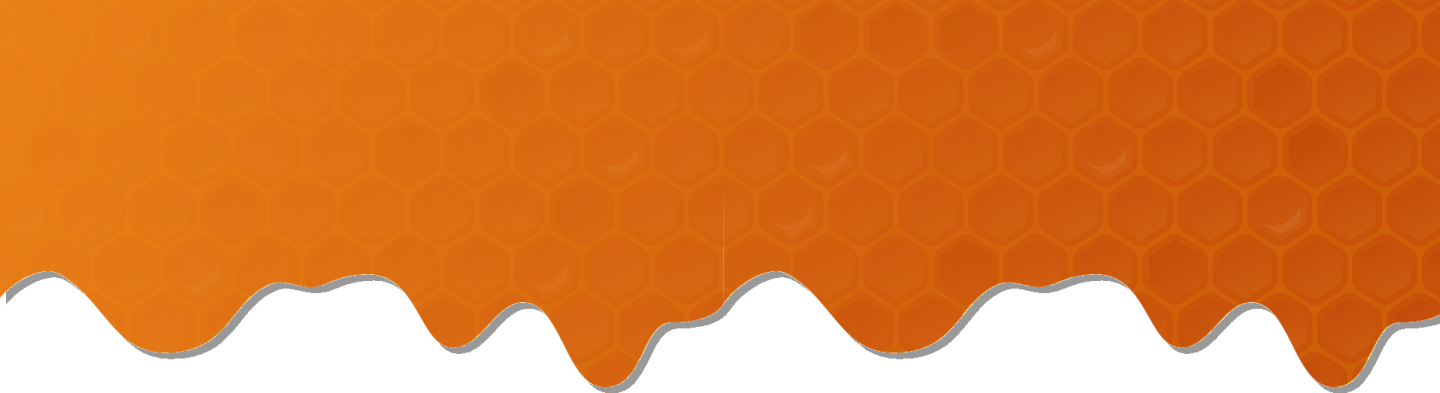
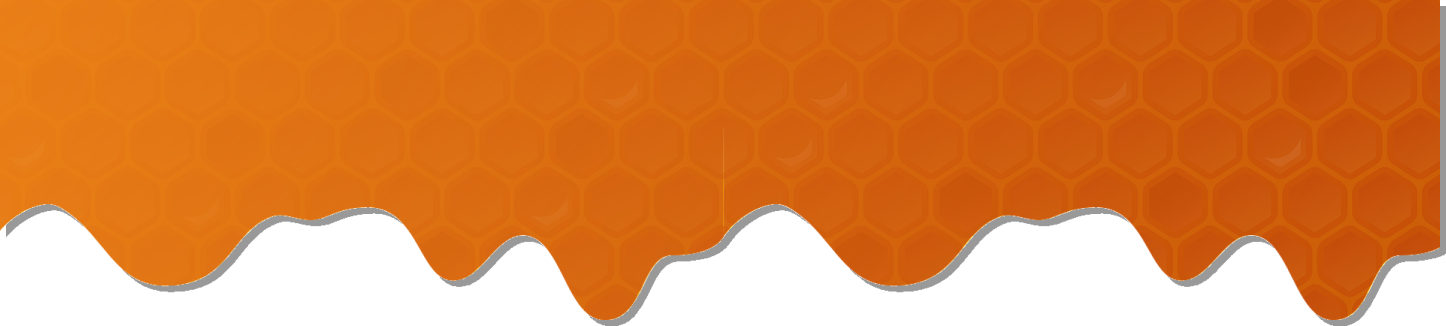
Header update

diff --git a/src/layout/components/header.tsx b/src/layout/components/header.tsx
@@ -8,36 +8,56 @@ import {
 const Header = (): JSX.Element => {
     
     return (
-        <div className="flex w-screen bg-black text-white align-center">
-            <div className="m-auto pb-[1%] pt-[1%]">
-                <ul className="flex flex-row gap-3 text-yellow-700">
-                    <li className="border border-yellow-700 pl-[1.5%] pr-[1.5%] hover:text-brown">
-                        <Link to="/projecten">Projecten</Link>
-                    </li>
-                    <li id="agenda" className="border border-yellow-700 pl-[1.5%] pr-[1.5%] hover:text-brown">
-                        <Link to="/agenda">Agenda</Link>
-                    </li>
-                    <li  className="border border-yellow-700 pl-[1.5%] pr-[1.5%] hover:text-brown">
-                        <Link to="/nieuws">Nieuws</Link>
-                    </li>
-                    <li className="border border-yellow-700 pl-[1.5%] pr-[1.5%] hover:text-brown">
-                        <Link to="/vrienden">Vrienden</Link>
-                    </li>
-                    <li className="border border-yellow-700 pl-[1.5%] pr-[1.5%] hover:text-brown">
-                        <Link to="/bijenzwerm">Bijenzwerm</Link>
-                    </li>
-                    <li className="border border-yellow-700 pl-[1.5%] pr-[1.5%] hover:text-brown">
-                        <Link to="/bijenhouden">Bijenhouden</Link>
-                    </li>
-                    <li className="border border-yellow-700 pl-[1.5%] pr-[1.5%] hover:text-brown">
-                        <Link to="/informatie">Informatie</Link>
-                    </li>
-                    <li className="border border-yellow-700 pl-[1.5%] pr-[1.5%] hover:text-brown">
-                        <Link to="/contact">Contact</Link>
-                    </li>
-                </ul>
+
+        <div className="pb-[40%]" id="header">
+
+            <div className="">
+                <div className="" id="logo">
+                    <img src="../resources/images/logo.png" alt="" />
+                </div>
+                <div className="">
+                    <h1 className="font-bold" id="text-1">SAMEN OP WEG NAAR</h1>
+                    <h1 className="" id="text-2">Bijvriendelijk Schouwen-Duivenland</h1>
+                </div>
             </div>
+
+            <div className="">
+                <div className=""></div>
+            </div>  
+
         </div>
+        
+
+        // <div className="flex w-screen bg-black text-white align-center">
+        //     <div className="m-auto pb-[1%] pt-[1%]">
+        //         <ul className="flex flex-row gap-3 text-yellow-700">
+        //             <li className="border border-yellow-700 pl-[1.5%] pr-[1.5%] hover:text-brown">
+        //                 <Link to="/projecten">Projecten</Link>
+        //             </li>
+        //             <li id="agenda" className="border border-yellow-700 pl-[1.5%] pr-[1.5%] hover:text-brown">
+        //                 <Link to="/agenda">Agenda</Link>
+        //             </li>
+        //             <li  className="border border-yellow-700 pl-[1.5%] pr-[1.5%] hover:text-brown">
+        //                 <Link to="/nieuws">Nieuws</Link>
+        //             </li>
+        //             <li className="border border-yellow-700 pl-[1.5%] pr-[1.5%] hover:text-brown">
+        //                 <Link to="/vrienden">Vrienden</Link>
+        //             </li>
+        //             <li className="border border-yellow-700 pl-[1.5%] pr-[1.5%] hover:text-brown">
+        //                 <Link to="/bijenzwerm">Bijenzwerm</Link>
+        //             </li>
+        //             <li className="border border-yellow-700 pl-[1.5%] pr-[1.5%] hover:text-brown">
+        //                 <Link to="/bijenhouden">Bijenhouden</Link>
+        //             </li>
+        //             <li className="border border-yellow-700 pl-[1.5%] pr-[1.5%] hover:text-brown">
+        //                 <Link to="/informatie">Informatie</Link>
+        //             </li>
+        //             <li className="border border-yellow-700 pl-[1.5%] pr-[1.5%] hover:text-brown">
+        //                 <Link to="/contact">Contact</Link>
+        //             </li>
+        //         </ul>
+        //     </div>
+        // </div>
     )
 }
 export default Header;

diff --git a/src/resources/css/App.css b/src/resources/css/App.css
@@ -2,8 +2,30 @@
 @tailwind utilities;
 @tailwind components;
 
-.footer-image {
-    background-image: url("../images/imkerlogo.png");
+/* Font Import */
+@import url('https://fonts.googleapis.com/css2?family=Hind:wght@300;400;500;600;700&display=swap');
+@import url('https://fonts.googleapis.com/css2?family=Lobster&display=swap');
+
+/* Fonts */
+
+#text-1 {
+    font-family: 'Hind', sans-serif;
+}
+
+#text-2 {
+    font-family: 'Lobster', sans-serif;
+}
+
+/* Images */
+
+#header {
+    background-image: url("../images/banner.png");
+    background-repeat: no-repeat;
+    background-size: 100%;
+}
+
+/* #logo {
+    background-image: url("../images/logo.png");
     background-repeat: no-repeat;
     background-size: auto;
-}
+} */
